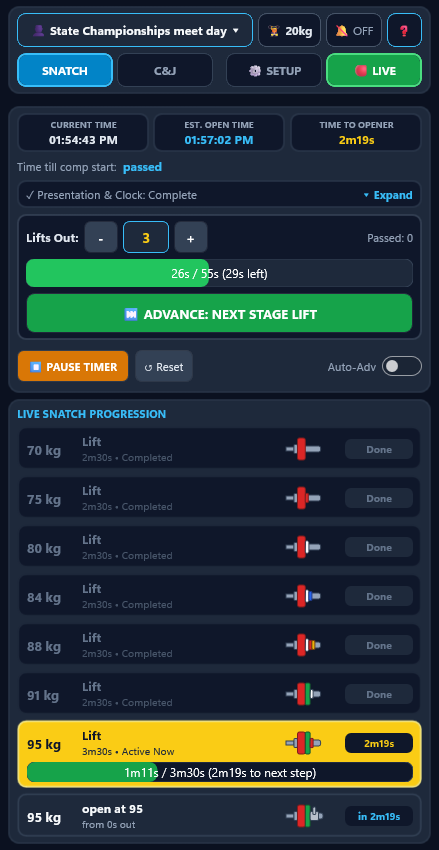
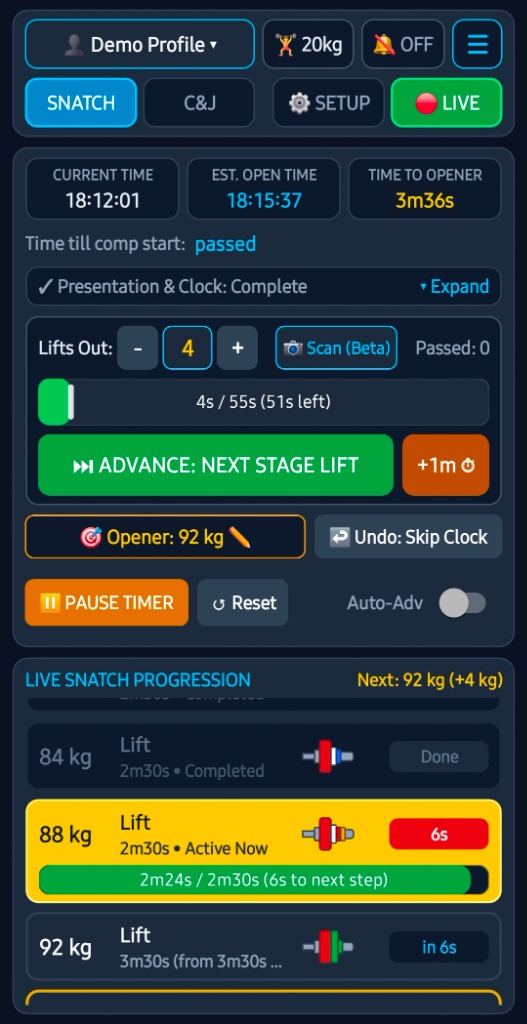
Update phone screenshots (Dark & Light themes + AI Scoreboard Scanner) in docs and README

diff --git a/README.md b/README.md
@@ -27,14 +27,14 @@ Enter your lifter's **Snatch** or **Clean & Jerk** opener, barbell type, weight-
 
 ## Screenshots
 
-### 📱 Phone Layout (Portrait)
-| Snatch Setup & Opener | Warmup Schedule & Plates | Snatch LIVE Countdown | Clean & Jerk 3-Phase LIVE |
-| :---: | :---: | :---: | :---: |
-| <img src="docs/screenshots/01-phone-snatch-setup.png" alt="Snatch Setup & 95kg Opener" width="200" /> | <img src="docs/screenshots/02-phone-warmup-schedule.png" alt="Warmup Schedule & IWF Plate Sleeves" width="200" /> | <img src="docs/screenshots/04-phone-snatch-live.png" alt="Snatch LIVE Countdown" width="200" /> | <img src="docs/screenshots/05-phone-cj-live-3phase.png" alt="Clean & Jerk 3-Phase LIVE" width="200" /> |
+### 📱 Phone Layout (Portrait — Dark & Light Themes)
+| Snatch Setup & Opener | Warmup Schedule (Light) | Snatch LIVE & Presentation Clock |
+| :---: | :---: | :---: |
+| <img src="docs/screenshots/01-phone-snatch-setup.png" alt="Snatch Setup & 92kg Opener" width="210" /> | <img src="docs/screenshots/02-phone-warmup-schedule.png" alt="Warmup Schedule & IWF Plate Sleeves (Light Theme)" width="210" /> | <img src="docs/screenshots/03-phone-snatch-live-presentation.png" alt="Snatch LIVE Presentation Clock" width="210" /> |
 
-| Jumps, Times & Extras | About & Ko-fi Support |
-| :---: | :---: |
-| <img src="docs/screenshots/03-phone-rules-and-jumps.png" alt="Jumps, Times & Pre-Warmup Extras" width="200" /> | <img src="docs/screenshots/06-phone-about.png" alt="About Comp OWL" width="200" /> |
+| Snatch LIVE Stage & Final-10s Alert | Clean & Jerk 3-Phase LIVE (Light) | AI Scoreboard Scanner (Beta) |
+| :---: | :---: | :---: |
+| <img src="docs/screenshots/04-phone-snatch-live.png" alt="Snatch LIVE Stage Countdown" width="210" /> | <img src="docs/screenshots/05-phone-cj-live-3phase.png" alt="Clean & Jerk 3-Phase LIVE (Light Theme)" width="210" /> | <img src="docs/screenshots/06-phone-ai-scoreboard-scanner.png" alt="AI Scoreboard Scanner Expected Lifts" width="210" /> |
 
 ### 💻 Tablet / iPad 2-Column Split Dashboard (Landscape)
 | Setup & Schedule Split Dashboard | Live Competition Split Dashboard |
